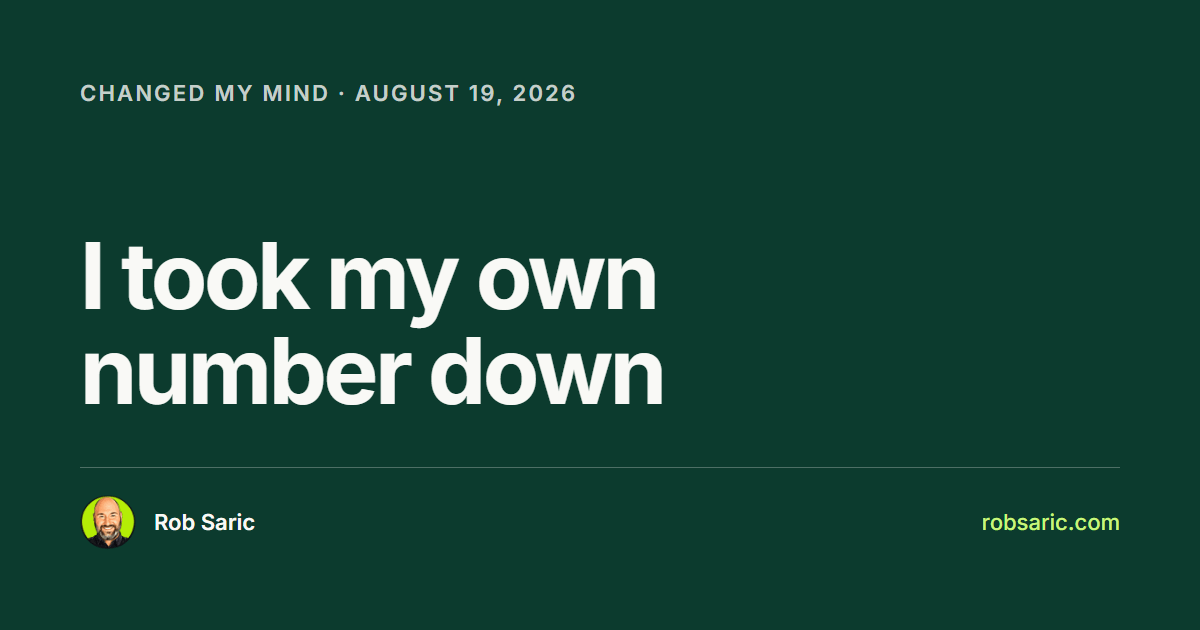
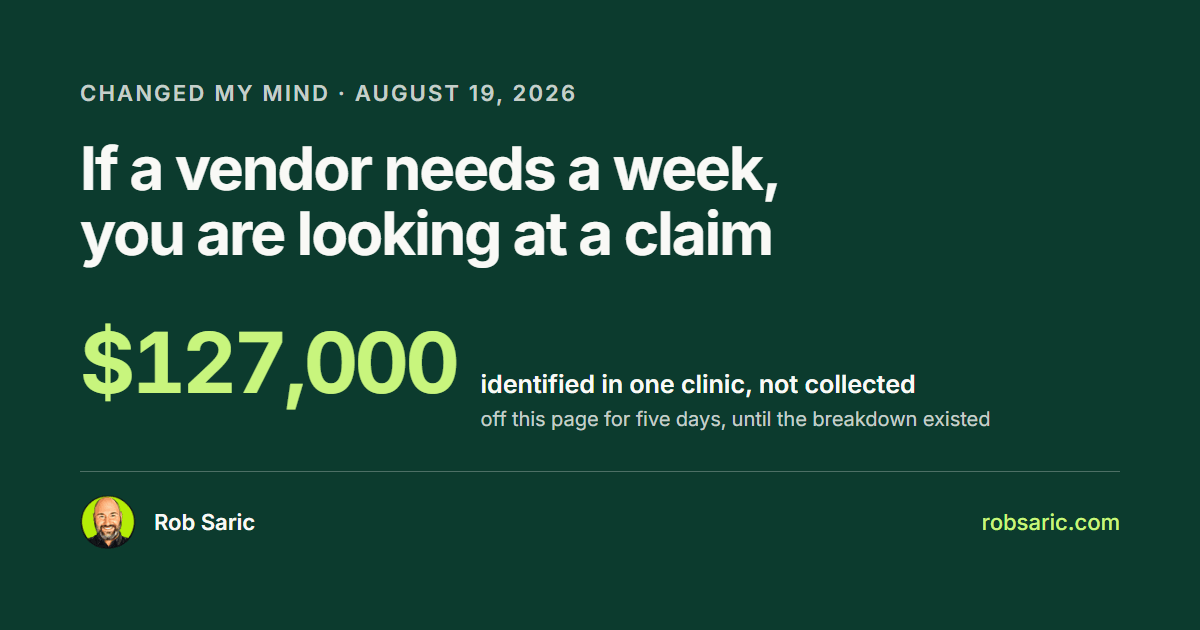
feat(notes): the post gate, Codex as reviewer, and the number note rebuilt through both
Rob's complaint about the number-down note was that it had no lesson he could
find, no structure a stranger could interpret, and no reason anyone would share
it. That is a class of defect no lint catches, so it gets a gate.

The post gate (rs-voice, five questions) decides whether a note deserves to
exist, where the widths test decides whether the right reader can parse it: the
lesson survives one sentence and sits in the title or the first three lines;
the structure is lesson first with the story as evidence, never chronology; the
"read this because ___" share sentence can be filled in by a named person; the
note stands cold to someone arriving from a shared link; and the last paragraph
hands the reader something to do. rs-note step 3 loads it before drafting.

Codex becomes step 8, the review no gate and no author can perform. It runs
read-only on the latest model at medium effort and the priority tier, which
returns a full review in about two minutes, and it checks the note against copy
law, the identified-is-not-collected boundary, the post gate, the standalone
share surfaces, and git history. That last one matters: it reads what actually
happened in this repo rather than what the author remembers. The prompt is
versioned at .claude/skills/rs-note/codex-review.md so the review is repeatable.

The note is the first thing held to both. Its lesson had been sitting in
paragraph nine under a chronology of this homepage; it is now the title, "If a
[…]

Changed region(s): [[0.0617, 0.2111, 0.8325, 0.6937], [0.0925, 0.7238, 0.925, 0.754]]

diff --git a/docs/COPY.md b/docs/COPY.md
@@ -136,8 +136,8 @@ Renamed from "Field notes" 2026-08-27 (Rob's call, made personal). The URL `/fie
 - Filter pills: All, then only the tags carried by notes actually in that grid, in `NOTE_TAGS` order (Clinic revenue · Billing and insurance · Patient flow · AI and trust · Building Caretrics · Founder notes). Below two represented tags the row is not rendered, so a pill never leads to the empty state.
 - Empty state: Nothing filed under this one yet.
 - Card types: Field note · Shipped · Changed my mind
-- Notes (`src/content/notes/*.md`). Live: `2026-08-18-unbooked-at-the-desk` (2026-08-18), `2026-08-19-i-took-my-own-number-down` and `2026-08-19-i-only-checked-the-widths-i-designed-for` (both 2026-08-19). The two 08-19 notes are written from events in this repo that are verifiable in git history: the metric cut in `82b38da` and the mid-range layout bug measured in `0c016fe`. They invent no clinic data, which is why they could be written and the six seed notes could not. The widths note was retitled "A clean report is not a clean clinic" and inverted 2026-08-25 to lead with the clinic and compress the website story to a confession (the rs-voice widths test, which it had failed); the slug is unchanged because the filename is the permanent URL. The number-down note gained an early vendor-deck bridge the same day. Still `draft: true` `[DRAFT, V9]`: the six seed entries transcribed from the artboard. Each card body is the note's `summary`; each seed file needs a real body before `draft` is removed.
-- `/field-notes/` H1: Field notes, and nothing else in the page header. The line "Kept in public, in order. The wrong turns stay in." belongs to the section intro and was printing twice on this page until 2026-08-19. · meta description: Field notes from Rob Saric on clinic revenue, ownership, and building Caretrics. Kept in public, in order.
+- Notes (`src/content/notes/*.md`). Live: `2026-08-18-unbooked-at-the-desk` (2026-08-18), `2026-08-19-i-took-my-own-number-down` and `2026-08-19-i-only-checked-the-widths-i-designed-for` (both 2026-08-19). The two 08-19 notes are written from events in this repo that are verifiable in git history: the metric cut in `82b38da` and the mid-range layout bug measured in `0c016fe`. They invent no clinic data, which is why they could be written and the six seed notes could not. The widths note was retitled "A clean report is not a clean clinic" and inverted 2026-08-25 to lead with the clinic and compress the website story to a confession (the rs-voice widths test, which it had failed); the slug is unchanged because the filename is the permanent URL. The number-down note was rebuilt 2026-08-27 through the rs-voice post gate (Rob: no lesson up front, chronology structure, nothing shareable): retitled "If a vendor needs a week, you are looking at a claim" (slug unchanged, the URL is permanent), inverted to lesson-first (the vendor test opens, the homepage story is the confession that earns it), the exit lands in the reader's next vendor meeting, an "Update, five days later" section closes the loop with the /how-i-counted/ link, and it carries the $127,000 stat for its OG card; `updated: 2026-08-27` drives the Updated date line. A Codex review the same day (a rejected third-party rewrite prompted it) fixed the note's own boundary drift: the body now says the figure was "identified, not collected" in the sentence that introduces it, the OG stat label reads "identified, then taken off this homepage" so the share card cannot imply recovery, "the working" became the concrete "rows", the title names the vendor so it stands cold, the opener runs two examples instead of three (copy law item 4), and the update closes on the reader ("Hold me to the same test you hold them to") rather than on the workflow. Still `draft: true` `[DRAFT, V9]`: the six seed entries transcribed from the artboard. Each card body is the note's `summary`; each seed file needs a real body before `draft` is removed.
+- `/field-notes/` H1: My notes, and nothing else in the page header. The line "Kept in public, in order. The wrong turns stay in." belongs to the section intro and was printing twice on this page until 2026-08-19. · meta description: Notes from Rob Saric on clinic revenue, ownership, and building Caretrics. Kept in public, in order.
 - Article byline (field-note articles only, added 2026-08-24): "By Rob Saric · Founder of Caretrics", under the date in the article header; the name links to `/about/`. The JSON-LD already carried the author; now the reader sees it too. Archive posts stay as written, no byline.
 - Updated line: when a note carries `updated` frontmatter, the date line reads "[published date] · Updated [updated date]".
 - OG share cards (added 2026-08-25): every published note ships a generated 1200x630 card at `/og/notes/<slug>.png` (`pnpm generate:og`, committed under `public/og/notes/`). On the card: the note's `type` and full date as the eyebrow, the title anchored to the footer rule, then the avatar mark, "Rob Saric" and "robsaric.com" (`src/data/og-card.mjs`). Design approved 2026-08-25 from the claude.ai/design "Field Note OG Cards" sheet: 9a dark with the 92/84/76 title ladder, plus the 9c stat slot when a note carries `stat` + `statLabel` (+ optional `statContext`) frontmatter, the avatar added by Rob; transcribed in `scripts/og-card-template.mjs`. Stat strings state what they count ("against 15% booked at the desk · one clinic, two years"). Other pages keep `og-default.png`.

diff --git a/src/content/notes/2026-08-19-i-took-my-own-number-down.md b/src/content/notes/2026-08-19-i-took-my-own-number-down.md
@@ -1,43 +1,29 @@
 ---
-title: "I took my own number down"
-summary: "There was a real figure on this homepage, from real records. The page explaining how I counted it did not exist yet, so the figure came off."
+title: "If a vendor needs a week, you are looking at a claim"
+summary: "A recovery total is worth what its rows are worth. Ask to see them before the meeting ends. I took my own identified $127,000 off this page when I could not show mine."
 type: "Changed my mind"
 date: 2026-08-19
+updated: 2026-08-27
 tags:
   - "Building Caretrics"
 stage: -1
 meta: "Building Caretrics"
-description: "A real number came off this homepage because the page explaining how it was counted had not been written. Identified is not collected, mine included."
+description: "The vendor-number test: ask to see the rows behind the total before the meeting ends. Why I took my own identified $127,000 off this page."
+stat: "$127,000"
+statLabel: "identified in one clinic, not collected"
+statContext: "off this page for five days, until the breakdown existed"
 ---
 
-There was a number on this homepage. A dollar figure, in large type, in the dark band near the top.
-
-It was real. One clinic, twelve months of records, four gaps, and I could point at the rows that made it up.
-
-Under it was a link that said what the number meant. That link went to a page which said, in full, that the page had not been written yet.
-
-So the number came off.
-
-Not because it was wrong. Because a figure without its method is a claim, and this site has a principle that says identified is not collected. I wrote that principle to describe what a scan does and does not prove. It turns out it also describes what I had done to my own visitors: shown them a total and asked them to take my word for the arithmetic.
-
-If you have ever been handed a recovery figure in a vendor deck, this is a note about that number too.
-
-Taking someone's word for the arithmetic is the exact habit I am asking clinic owners to break.
-
-The uncomfortable part is that nobody would have caught it. The number is true. If I had left it up and written the page in a month, no reader would have known the difference. The only thing that failed was the standard, and standards that only bind you when someone is watching are not standards.
-
-## What this has to do with your clinic
-
-You have probably seen a number like mine. A recovery figure in a vendor deck. A projected uplift in a proposal. A total on a dashboard nobody can trace back to a list of patients.
-
-The question worth asking is not whether the number is real. It usually is. The question is whether the person showing it can put the working next to it without going away to prepare something first.
+A recovery figure in a vendor's deck. A total on a dashboard nobody can trace back to a list of patients. The question is not whether the number is true. It is whether the vendor can pull up the rows that make up that total, before the meeting ends, without going away to prepare something first.
 
 If they can, the number is worth having. If they need a week, you are looking at a claim.
 
-## What happens next
+I failed my own test. This homepage carried $127,000 in large type. The figure was identified, not collected: money the records showed was slipping in one clinic over twelve months, across four gaps, and I could point to the rows behind each one.
 
-The figure goes back the day the breakdown is written: what was counted, what was not counted, and where it came from. That page is called How I counted it, because it should invite checking rather than assert rigour.
+Under it sat a link that read "How I counted this". It went to a page saying the breakdown had not been written yet.
 
-Until then the section stands on what was always the stronger half. One signal, followed from the moment it was detected through to a verified outcome, with the name of the person who did each step.
+So the number came off. Not because it was wrong, but because a total whose working nobody can see is a claim, whoever is showing it. That is the habit I am asking clinic owners to break, and I had built it into my own homepage. Standards that only bind you when someone is watching are not standards.
 
-A worked example beats a total. I should have trusted that in the first place.
+Five days later the breakdown was written. [How I count](/how-i-counted/) carries the four gaps, their amounts, and the cohort they came from, and the $127,000 is back on the page with that link under it. It is still an identified figure, not collected money.
+
+What I would do in your clinic: the next time anyone shows you a recovery total, me included, ask to see the rows that add up to it before the meeting ends. Not a sample, the list. What you learn from the answer is worth more than the number was.

diff --git a/.claude/skills/rs-note/SKILL.md b/.claude/skills/rs-note/SKILL.md
@@ -5,7 +5,8 @@ description: Publish a field note on robsaric.com end to end. Use when writing, 
 
 # Publish a field note
 
-Ten steps. Steps 5 and 6 are the ones every gate misses.
+Eleven steps. Steps 5 and 6 are the ones every gate misses; step 8 is the one that catches what
+neither a gate nor the author can see.
 
 ## 1. Write the file
 
@@ -28,7 +29,12 @@ nothing enforces this.
 | `stat` / `statLabel` / `statContext` | Optional, for the OG card's stat slot: the note's one load-bearing number, its claim, and its provenance ("one clinic, two years"). `stat` and `statLabel` are a pair (`check:notes` enforces it); numbers must come from the note body, verified. |
 | `draft` | Omit for a live note. See step 5. |
 
-## 3. Write the body against copy law
+## 3. Write the body against copy law, the widths test, and the post gate
+
+Load `rs-voice` first: its widths test decides whether the right reader can parse the note, and
+its post gate (five questions: one-sentence lesson, lesson-first structure, the share sentence,
+stands cold, the exit is theirs) decides whether the note deserves to exist at all. A draft that
+fails the gate stays a draft.
 
 `docs/COPY.md` "Copy law", all nine items. Beyond what `pnpm lint:copy` catches:
 
@@ -73,7 +79,31 @@ Three places, all of them:
 `docs/COPY.md` is the source of truth for copy. A data file that disagrees with it is the defect,
 whichever one you edited last.
 
-## 8. Generate the OG share card
+## 8. Send it to Codex for review
+
+Claude orchestrates, Codex reviews (AGENTS.md, "What this is"). Run this before the card and the
+gate, from the repo root. The prompt lives in `.claude/skills/rs-note/codex-review.md`; swap the
+slug in first, or paste the note's path when it asks.
+
+```
+(Get-Content .claude/skills/rs-note/codex-review.md -Raw) -replace '<SLUG>', '2026-08-19-my-note' |
+  codex exec --sandbox read-only -m gpt-5.6-sol -c model_reasoning_effort="medium" -c service_tier="priority" -
+```
+
+Flags, and why each one: `--sandbox read-only` because Codex reviews and never writes here;
+`-m gpt-5.6-sol` pins the latest model rather than inheriting whatever the user config drifts to;
+`model_reasoning_effort="medium"` returns in well under a minute where the config's `ultra` runs
+for many (raise it to `high` for a note carrying a new public number); `service_tier="priority"`
+for the faster queue. On Windows PowerShell, pipe the prompt in on stdin as above: passing it as
+an argument breaks on the quotes inside it.
+
+**Codex is a reviewer, not an author.** Take its factual corrections, its boundary catches, and
+its cuts. Ignore any rewrite it offers in its own voice. It has caught, on real notes: a body that
+never said "identified" while the whole note was about a number, an OG stat label that implied
+recovery on a card seen without the body, and an exit that landed in Rob's workflow rather than
+the reader's clinic. Fix what it finds, then re-read the note yourself as a clinic owner.
+
+## 9. Generate the OG share card
 
 Every published note ships a 1200x630 card at `/og/notes/<slug>.png`, committed under
 `public/og/notes/`. After a build (the generator reads the built fonts from `dist/`):
@@ -86,7 +116,7 @@ pnpm generate:og
 `pnpm check:notes` fails a published note whose PNG is missing or the wrong size, so skipping this
 fails the gate. Regenerate after a title change too; nothing detects a stale title on the card.
 
-## 9. Run the gate bare
+## 10. Run the gate bare
 
 ```
 pnpm gate
@@ -100,7 +130,7 @@ The lint baseline is **4 warnings**, all `"dashboard"` (`src/data/copy.ts`, `src
 site uses the word critically. **A fifth warning is yours.** Read it, do not wave it through on a
 green exit code.
 
-## 10. Confirm it actually shipped
+## 11. Confirm it actually shipped
 
 `pnpm check:notes` covers the draft trap, the date prefix, the slug-clean filename, the 155 clamp,
 the stage/meta agreement, and the OG card (present and 1200x630). Confirm the rest by eye:

diff --git a/.claude/skills/rs-note/codex-review.md b/.claude/skills/rs-note/codex-review.md
@@ -1,0 +1,36 @@
+You are reviewing a field note for robsaric.com (repo: current directory). It is written by Rob
+Saric, founder of Caretrics, for allied-health and rehab clinic owners who run on Jane.app.
+
+READ THESE FIRST, in full:
+
+- `docs/COPY.md` "Copy law", items 1 to 9, and the locked credential in item 7
+- `.claude/skills/rs-voice/SKILL.md`: the ten voice moves, the widths test, the post gate
+- The note under review: `src/content/notes/<SLUG>.md`
+- `src/content/notes/2026-08-18-unbooked-at-the-desk.md`, the model note the others are held to
+
+Check the note's factual claims against the repo itself: git history, `docs/COPY.md`,
+`src/data/copy.ts`, and any page the note refers to. Notes about this site's own history are
+checkable in the log; do not take the note's word for what happened.
+
+Report, plain text, quoting the lines you mean:
+
+1. **Law breaches.** Banned words (audited, advised, ex-DSO, by hand, the books), hype adjectives,
+   em dashes, chatbot tone, relative time markers ("recently", "last week"), machine rhythm (more
+   than one "not X, it's Y" per section, three examples where two carry it, consecutive paragraphs
+   ending on punchlines), and any drift from the locked credential forms.
+2. **Boundary breaches.** The site's core distinction is that Caretrics *identifies* money that
+   may be slipping and never collects it: "identified is not collected". Flag any sentence, any
+   frontmatter field, and any OG stat string that implies recovery, collection, or a guaranteed
+   outcome. Flag anything implying Caretrics assigns owners or decides the fix; the clinic does.
+   Flag any implied Jane partnership or endorsement.
+3. **Factual errors** against the record, with the source that contradicts them.
+4. **Post gate.** Does the note pass all five (a one-sentence lesson that survives; lesson first
+   with story as evidence; a fillable "read this because ___" share sentence; it stands cold to a
+   reader from a shared link; the last paragraph hands the reader something to do)? Name the ones
+   it fails and why.
+5. **Standalone surfaces.** Read `title`, `summary`, `description`, and the `stat`/`statLabel`/
+   `statContext` trio as a stranger sees them on a share card, with no body around them. Do they
+   stay accurate and inside the boundary on their own?
+6. **What is genuinely weak** and what you would cut. Be specific and be blunt. Do not praise.
+
+Do not edit any file. Report only.

diff --git a/.claude/skills/rs-voice/SKILL.md b/.claude/skills/rs-voice/SKILL.md
@@ -69,6 +69,31 @@ checks, in order:
 Then the human gate no lint can run: read it once more as a clinic owner, and confirm nothing in
 it requires trusting Rob rather than checking for themselves.
 
+## The post gate (added 2026-08-27; a note is only worth posting if all five pass)
+
+The widths test asks whether the right reader can parse the note. This gate asks whether the note
+deserves to exist. Run it on every draft, and on every published note that gets reworked. A note
+that fails any question is a diary entry; keep it draft or do not write it.
+
+1. **The lesson survives one sentence.** Before drafting, write the takeaway as one sentence a
+   reader could repeat a week later. If it cannot be written, there is no note. That sentence
+   belongs in the title or the first three lines, never buried in the middle.
+2. **Lesson first, story as evidence.** The structure a stranger can interpret is: the claim, the
+   proof, the exit. A note structured as chronology (what happened to Rob, in order) makes the
+   reader excavate the lesson. Rob's story earns the lesson; it never leads it.
+3. **The share sentence can be filled in.** Name who sends this to a colleague and finish their
+   sentence: "read this because ____". If no specific person and no honest ending exist, the note
+   is not worth a stranger's time yet.
+4. **It stands cold.** The first three sentences carry every fact a reader from a shared link
+   needs. Nothing assumes the reader has seen this site, its homepage, or an earlier note.
+5. **The exit is theirs.** The last paragraph hands the reader something to do or check in their
+   own clinic or their next vendor meeting, never a report on Rob's workflow.
+
+The first note held to this gate was `2026-08-19-i-took-my-own-number-down`, reworked 2026-08-27:
+its lesson ("If they need a week, you are looking at a claim") had been sitting in paragraph nine
+under a chronology of the homepage. The gate inverts it: vendor test first, the homepage story as
+the confession that earns it.
+
 ## From the archive, do not carry forward
 
 Listicle scaffolding ("Here are the 3...", "There you have it"), consensus openers ("Many people

diff --git a/AGENTS.md b/AGENTS.md
@@ -8,6 +8,15 @@ Rob Saric's personal site and field-notes blog, rebuilt on Astro from the 2009 t
 
 Roles on this project: **Claude (Fable) orchestrates and reviews; Codex builds.** Codex runs read-only on this machine and emits complete files as `===FILE=== <path>` … `===END===` blocks; Claude applies them, runs the gates, and resumes the Codex thread with results. Nobody pushes to a remote without Rob.
 
+Codex also reviews copy. Every field note goes through it before shipping (`rs-note` step 8, prompt in `.claude/skills/rs-note/codex-review.md`), read-only, latest model, fast tier:
+
+```
+(Get-Content .claude/skills/rs-note/codex-review.md -Raw) -replace '<SLUG>', '<the-note-slug>' |
+  codex exec --sandbox read-only -m gpt-5.6-sol -c model_reasoning_effort="medium" -c service_tier="priority" -
+```
+
+It checks the note against copy law, the identified-is-not-collected boundary, the post gate, and git history, which is how it catches claims about this site that the author remembers wrong. Take its corrections; ignore any rewrite in its own voice.
+
 ## Stack
 
 - Astro 7 (static output, Vercel adapter, `trailingSlash: 'always'`), TypeScript strict, pnpm, Node 22.
